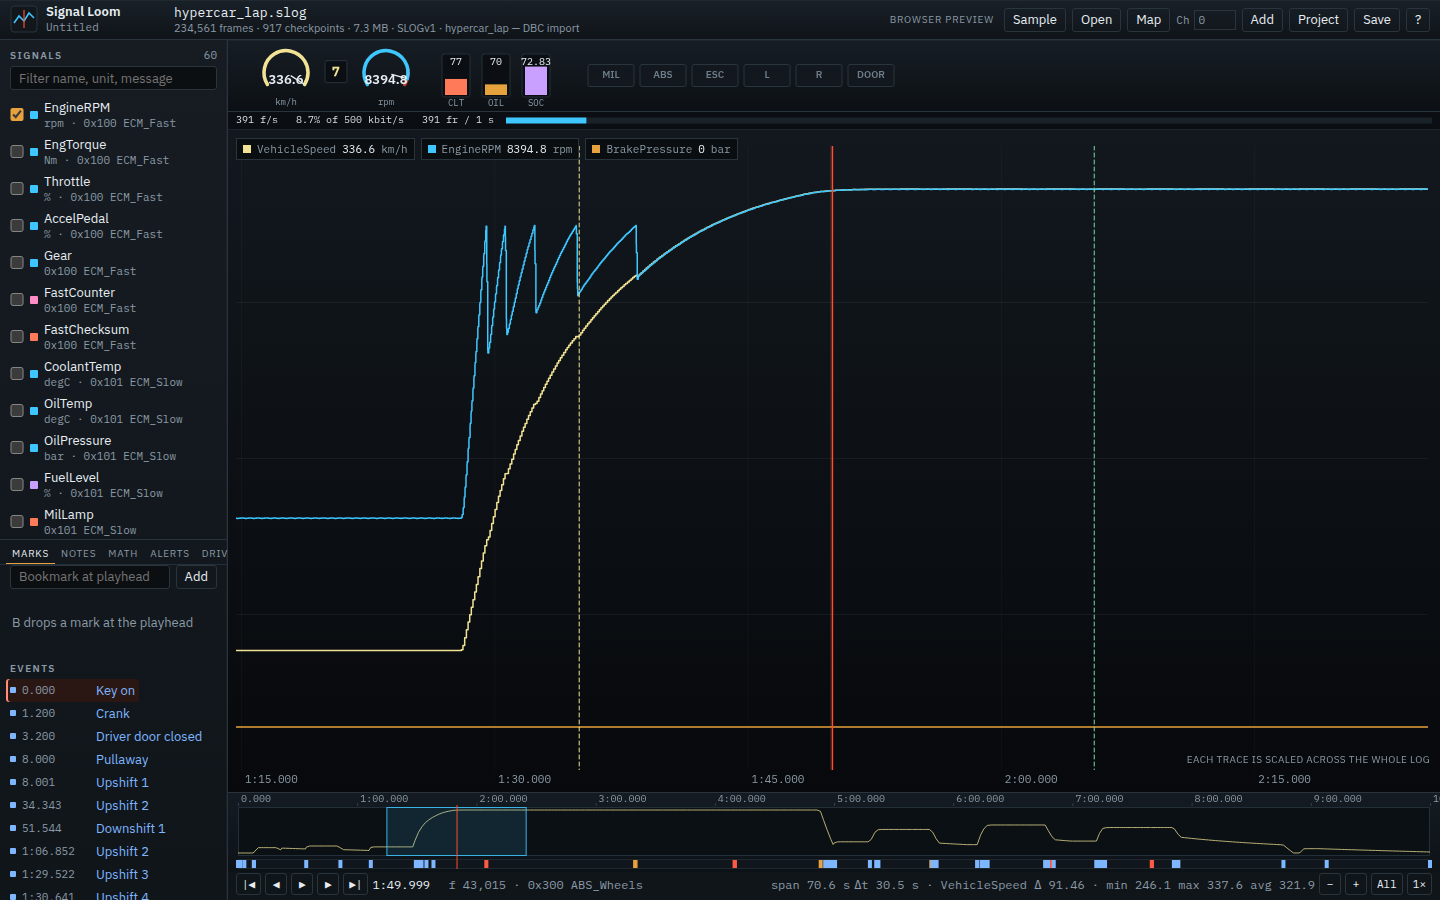
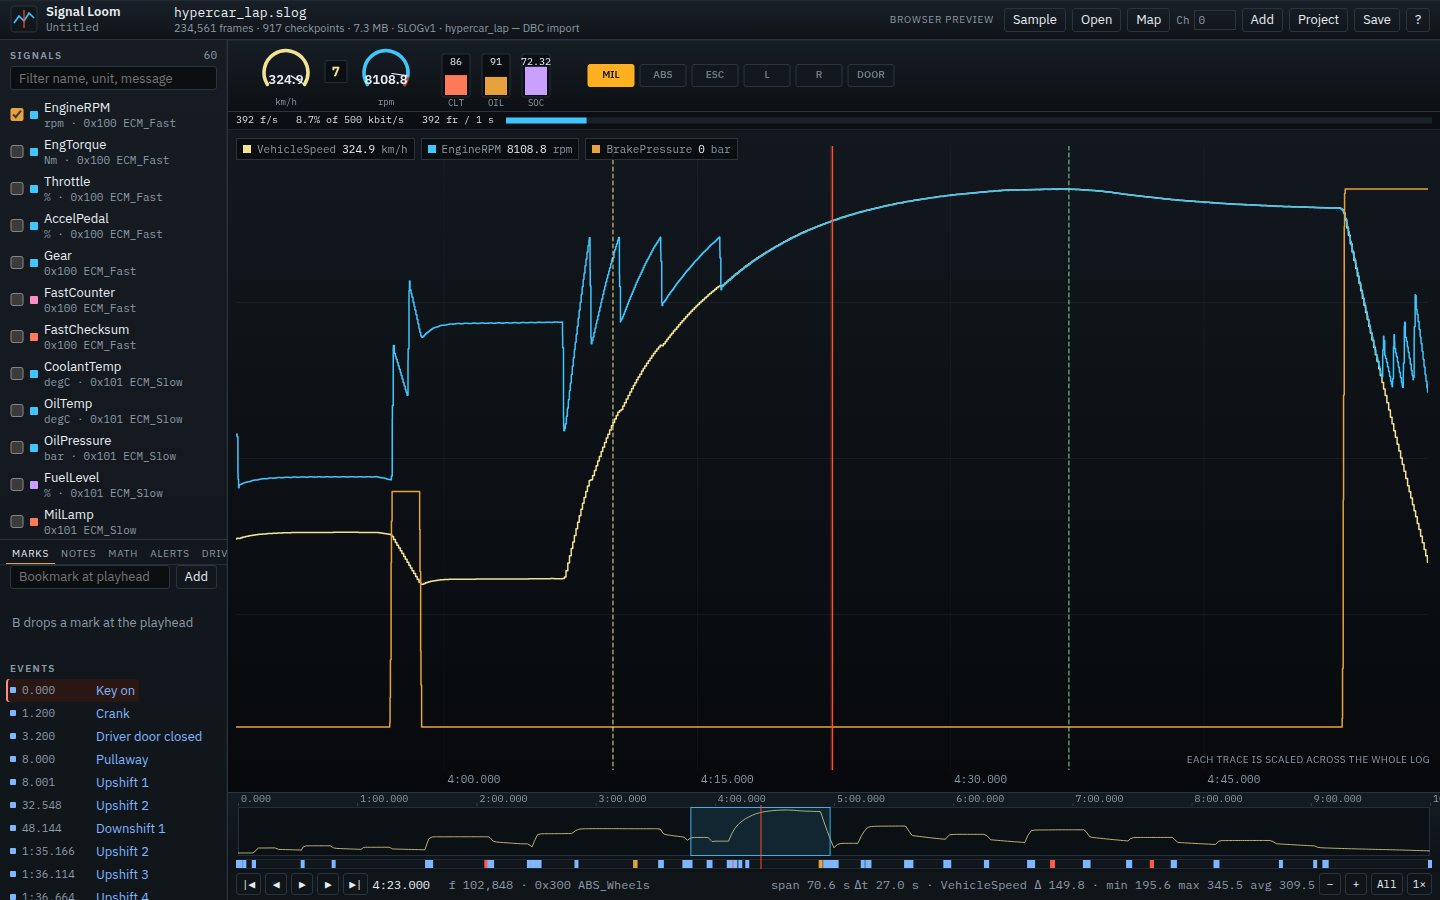
Keep the deck gauges live and shorten the top-speed straight.
The cluster was blank in the 4:58 screenshot because the shot landed before valuesAt filled the gauges, not because signal names changed. The lap test now requires those bindings to decode mid-drive. The straight holds top speed for about twenty seconds under the limiter, then brakes, and the brake hold is one pressure.

diff --git a/scripts/hypercar_bus.py b/scripts/hypercar_bus.py
@@ -7,11 +7,13 @@ cluster, and BMS. Payloads use an XOR checksum in byte 7 and a nibble
 or byte counter. Cycle times are 10, 20, 100, and 1000 ms, with jitter.
 
 Speed comes from a seeded longitudinal model (torque curve, gear ratio,
-aero drag, rolling resistance, mass). RPM follows road speed through the
-gear, with a torque cut on upshifts and a blip on downshifts. Brake
-pressure is zero except during scheduled applies: a 100–200 ms rise, a
-hold, and a release. The lap is urban, a top-speed straight, then corners
-and a pit.
+aero drag, rolling resistance, mass). A slow grade and a headwind move
+the aero balance so a flat-out straight is not a dead line. RPM follows
+road speed through the gear, with a torque cut on upshifts and a blip on
+downshifts. Brake pressure is zero except during scheduled applies: a
+100–200 ms rise, a constant hold, and a release. The lap is urban, several
+corners, a chicane, one short top-speed straight, a second shorter
+straight, and a pit.
 """
 
 from __future__ import annotations
@@ -25,9 +27,11 @@ FIXTURES = ROOT / "fixtures"
 DURATION_S = 600.0
 DT_S = 0.001
 
-# Overall ratio, engine rpm / wheel rpm. 7th is the top-speed gear:
-# drag and the torque curve meet near 330 km/h and about 8,400 rpm.
+# Overall ratio, engine rpm / wheel rpm. 7th is the top-speed gear.
+# Full-throttle drag and the torque curve meet under the rev limiter.
 GEARS = [0.0, 12.8, 8.6, 6.3, 4.9, 4.05, 3.5, 3.15]
+# Torque starts to fall here. The straight is geared to stay below it.
+REV_LIMIT = 9050.0
 WHEEL_RADIUS = 0.335
 WHEELBASE = 2.70
 TRACK = 1.64
@@ -70,34 +74,56 @@ CHECKSUM_FAULT_S = 460.0
 
 # (t1, desired km/h, throttle cap, peak lateral g). Lateral g is a sine
 # bump across the leg so a corner builds and releases. Straights are 0 g.
+# The 420 km/h leg is a throttle demand, not a speed the car can reach.
+# Aero drag sets the top speed, and only for the last part of that leg.
 _LEG_ROWS = [
     (8.0, 0.0, 0.0, 0.0),
-    (22.0, 42.0, 0.45, 0.0),
-    (34.0, 16.0, 0.25, 0.42),
-    (52.0, 55.0, 0.50, 0.0),
-    (66.0, 18.0, 0.22, -0.55),
-    (88.0, 48.0, 0.40, 0.12),
-    (292.0, 360.0, 1.0, 0.0),
-    (318.0, 88.0, 0.35, 0.85),
-    (348.0, 185.0, 0.90, 0.35),
-    (372.0, 64.0, 0.28, -1.10),
-    (408.0, 220.0, 1.0, 0.0),
-    (432.0, 92.0, 0.32, 0.80),
-    (470.0, 200.0, 0.92, -0.22),
-    (496.0, 68.0, 0.30, -0.90),
-    (544.0, 34.0, 0.32, 0.15),
-    (574.0, 8.0, 0.16, 0.0),
+    (20.0, 40.0, 0.42, 0.0),
+    (32.0, 16.0, 0.22, 0.48),
+    (48.0, 58.0, 0.48, 0.0),
+    (62.0, 20.0, 0.22, -0.58),
+    (78.0, 46.0, 0.38, 0.22),
+    (94.0, 24.0, 0.20, -0.42),
+    (128.0, 130.0, 0.72, 0.0),
+    (148.0, 72.0, 0.32, 0.82),
+    (168.0, 155.0, 0.78, -0.28),
+    (212.0, 195.0, 0.62, 0.12),
+    (224.0, 110.0, 0.35, 0.95),
+    (236.0, 125.0, 0.45, -1.05),
+    (247.0, 95.0, 0.32, 0.72),
+    (293.0, 420.0, 1.0, 0.0),
+    (312.0, 78.0, 0.30, 0.88),
+    (338.0, 215.0, 0.78, 0.0),
+    (356.0, 64.0, 0.28, -1.05),
+    (378.0, 150.0, 0.70, 0.35),
+    (396.0, 58.0, 0.26, -0.78),
+    (428.0, 185.0, 0.82, -0.18),
+    (448.0, 70.0, 0.30, 0.92),
+    (472.0, 125.0, 0.55, 0.0),
+    (492.0, 48.0, 0.24, -0.62),
+    (522.0, 100.0, 0.50, 0.40),
+    (544.0, 32.0, 0.28, 0.12),
+    (572.0, 8.0, 0.15, 0.0),
     (600.0, 0.0, 0.0, 0.0),
 ]
-# Explicit applies only. Rise is 100–200 ms. Zero everywhere else.
+# Explicit applies only. Rise and release are 100–200 ms. The hold is one
+# pressure, then the trace returns to exactly zero.
 _BRAKE_ROWS = [
-    (19.4, 0.14, 1.8, 0.18, 14.0),
-    (50.2, 0.15, 2.4, 0.20, 18.0),
-    (293.2, 0.16, 6.0, 0.22, 64.0),
-    (349.0, 0.14, 3.4, 0.18, 46.0),
-    (406.2, 0.15, 4.2, 0.20, 40.0),
-    (471.0, 0.13, 3.0, 0.18, 34.0),
-    (526.0, 0.16, 8.0, 0.28, 20.0),
+    (18.6, 0.14, 1.4, 0.16, 12.0),
+    (46.4, 0.15, 1.8, 0.18, 16.0),
+    (76.2, 0.12, 1.5, 0.16, 14.0),
+    (126.4, 0.16, 2.2, 0.18, 26.0),
+    (146.2, 0.14, 1.6, 0.16, 22.0),
+    (212.4, 0.15, 1.8, 0.18, 32.0),
+    (224.6, 0.13, 1.4, 0.16, 24.0),
+    (236.8, 0.14, 1.6, 0.16, 28.0),
+    (293.2, 0.16, 6.4, 0.20, 64.0),
+    (336.2, 0.15, 2.6, 0.18, 40.0),
+    (376.4, 0.14, 2.0, 0.16, 30.0),
+    (426.2, 0.15, 2.4, 0.18, 34.0),
+    (470.4, 0.13, 2.2, 0.18, 26.0),
+    (520.2, 0.16, 2.0, 0.18, 18.0),
+    (542.0, 0.14, 1.6, 0.16, 12.0),
 ]
 
 
@@ -143,23 +169,42 @@ def lat_target(t_s: float, leg: tuple[float, float, float, float, float]) -> flo
     return peak * math.sin(math.pi * phase)
 
 
+def _straight_gust(t_s: float, rise_s: float) -> float:
+    """1 on the top-speed straight, then back to 0 after the braking zone."""
+    if t_s <= 276.0 or t_s >= 306.0:
+        return 0.0
+    level = smoothstep(min((t_s - 276.0) / rise_s, 1.0))
+    if t_s > 294.0:
+        level *= 1.0 - smoothstep(min((t_s - 294.0) / 10.0, 1.0))
+    return level
+
+
+def road_slope(t_s: float) -> float:
+    """Uphill is positive. The top-speed straight runs onto a hill."""
+    grade = 0.003 * math.sin(2.0 * math.pi * (t_s - 30.0) / 80.0)
+    grade += 0.042 * _straight_gust(t_s, 4.0)
+    return grade
+
+
+def headwind_mps(t_s: float) -> float:
+    """Positive is a headwind. A gust arrives once the straight is at speed."""
+    wind = 0.7 * math.sin(2.0 * math.pi * (t_s - 80.0) / 50.0)
+    wind += 4.2 * _straight_gust(t_s, 5.0)
+    return wind
+
+
 def brake_pressure_bar(t_s: float) -> float:
-    """Smooth apply, or exactly zero. Noise stays under a bar on the hold."""
+    """One smooth apply, a constant hold, a smooth release, or exactly zero."""
     for t0, rise, hold, fall, peak in _BRAKE_ROWS:
         end = t0 + rise + hold + fall
         if t_s < t0 or t_s >= end:
             continue
         u = t_s - t0
         if u < rise:
-            shape = smoothstep(u / rise)
-        elif u < rise + hold:
-            shape = 1.0 - 0.035 * ((u - rise) / hold)
-        else:
-            shape = (1.0 - smoothstep((u - rise - hold) / fall)) * 0.965
-        bar = peak * shape
-        if bar > 2.0:
-            bar += 0.30 * math.sin(t_s * 31.0 + t0)
-        return max(0.0, bar)
+            return peak * smoothstep(u / rise)
+        if u < rise + hold:
+            return peak
+        return peak * (1.0 - smoothstep((u - rise - hold) / fall))
     return 0.0
 
 
@@ -366,17 +411,19 @@ class Bus:
         else:
             rpm = self.rpm if self.rpm > 400 else 900.0
             limit = 1.0
-            if rpm > 8350:
-                limit = clamp(1.0 - (rpm - 8350) / 450.0, 0.15, 1.0)
+            if rpm > REV_LIMIT:
+                limit = clamp(1.0 - (rpm - REV_LIMIT) / 350.0, 0.05, 1.0)
             eng = engine_torque_nm(rpm) * self.throttle * self.torque_scale * limit
             mot = motor_nm(speed_kmh) * self.throttle * self.torque_scale if self.soc > 12 else 0.0
             drive = min(MU * MASS * G, (eng + mot) * GEARS[self.gear] * DRIVE_EFF / WHEEL_RADIUS)
         self.torque = eng + mot
-        drag = CDA * self.speed_mps * self.speed_mps
+        air = self.speed_mps + (headwind_mps(self.t_s) if self.speed_mps > 1.0 else 0.0)
+        drag = CDA * air * abs(air)
         roll = CRR * MASS * G if self.speed_mps > 0.15 else 0.0
+        grade = MASS * G * road_slope(self.t_s) if self.t_s >= 8.0 and self.gear > 0 else 0.0
         # 80 bar is a hard stop, a bit over 1 g before aero.
         brake_force = (self.brake_bar / 80.0) * 18500.0
-        net = drive - drag - roll - brake_force
+        net = drive - drag - roll - grade - brake_force
         self.speed_mps = max(0.0, self.speed_mps + (net / MASS) * DT_S)
 
     def _rpm_target(self) -> float:
@@ -441,11 +488,11 @@ class Bus:
 
     def turn_left(self) -> bool:
         t = self.t_s
-        return 18 <= t < 27 or 398 <= t < 418 or 500 <= t < 514
+        return 18 <= t < 30 or 210 <= t < 224 or 300 <= t < 314
 
     def turn_right(self) -> bool:
         t = self.t_s
-        return 62 <= t < 80 or 428 <= t < 450
+        return 46 <= t < 64 or 224 <= t < 238 or 336 <= t < 356
 
     def wheel_kmh(self, index: int) -> float:
         """FL, FR, RL, RR. Outside wheels run faster in a corner."""
@@ -725,7 +772,7 @@ def generate() -> tuple[int, int]:
     header = [
         "SLOGv1",
         "# SYNTHETIC. Not a vehicle capture. Generated by scripts/hypercar_bus.py.",
-        "# Hybrid hypercar. Torque, gears, drag, and mass. Urban, a top-speed straight, corners, pit.",
+        "# Hybrid hypercar. Torque, gears, drag, grade, and wind. Urban, corners, a short top-speed straight, pit.",
         "# XOR checksum in byte 7. Counters live in the DBC. Pair with hypercar_lap.dbc.",
         "# Planted: DTC P0301, TCU counter skip, ECM_Fast gap, bus-off error frames, ABS bad checksum.",
     ]

diff --git a/crates/loom-core/src/tests.rs b/crates/loom-core/src/tests.rs
@@ -457,7 +457,7 @@ fn hypercar_lap_decodes_like_a_drive() {
     let lap = std::fs::read(root.join("hypercar_lap.slog")).expect("synthetic lap");
     assert_eq!(
         lap.len(),
-        7_698_847,
+        7_699_372,
         "regenerate with scripts/gen_fixture.py"
     );
     let digest = Sha256::digest(&lap);
@@ -467,7 +467,7 @@ fn hypercar_lap_decodes_like_a_drive() {
         .collect::<String>();
     assert_eq!(
         sha,
[2 lines of base64/hex data omitted]
     );
     let mut session = Session::new();
     session
@@ -525,6 +525,60 @@ fn hypercar_lap_decodes_like_a_drive() {
     assert!(at(500_000_000, "CoolantTemp") > at(5_000_000, "CoolantTemp") + 20.0);
     assert!(at(299_000_000, "AbsActive") > 0.5);
     assert!(at(560_000_000, "DoorFL") > 0.5);
+}
+
+#[test]
+fn deck_bound_signals_are_live_mid_drive() {
+    // Names `readingsFrom` in src/gauges.ts looks up. A rename in the
+    // generator or DBC leaves the cluster drawing blanks.
+    let names = [
+        "VehicleSpeed",
+        "EngineRPM",
+        "DisplayedRPM",
+        "CoolantTemp",
+        "OilTemp",
+        "Soc",
+        "FuelLevel",
+        "Gear",
+        "GearActual",
+        "MilLamp",
+        "TelltaleMil",
+        "AbsActive",
+        "TelltaleAbs",
+        "TurnLeft",
+        "TelltaleLeft",
+        "TurnRight",
+        "TelltaleRight",
+        "DoorFL",
+        "EscActive",
+    ];
+    let root = PathBuf::from(env!("CARGO_MANIFEST_DIR")).join("../../fixtures");
+    let mut session = Session::new();
+    session
+        .open_path(&root.join("hypercar_lap.slog"))
+        .expect("synthetic lap");
+    let summary = session.summary().unwrap();
+    let have: std::collections::HashSet<&str> = summary
+        .signals
+        .iter()
+        .map(|signal| signal.name.as_str())
+        .collect();
+    for name in names {
+        assert!(have.contains(name), "lap is missing {name}");
+    }
+    // 4:58, the deck playhead: braking off the straight, MIL already set.
+    let held = session.values_at(298_000_000).unwrap();
+    for name in names {
+        let value = held.iter().find(|item| item.name == name);
+        assert!(
+            value.is_some_and(|item| item.value.is_finite()),
+            "{name} did not decode at 4:58"
+        );
+    }
+    let mil = held.iter().find(|item| item.name == "MilLamp").unwrap();
+    assert!(mil.value > 0.5, "MIL should be lit mid-drive");
+    let abs = held.iter().find(|item| item.name == "AbsActive").unwrap();
+    assert!(abs.value > 0.5, "ABS should be lit on the straight's brake");
 }
 
 #[test]

diff --git a/README.md b/README.md
@@ -8,7 +8,7 @@ The heavy work stays in Rust. The window is a Tauri 2 shell. The UI is TypeScrip
 
 Desktop layout at 1440×900, after indexing finished. The first four pictures use the synthetic hypercar lap, `fixtures/hypercar_lap.slog` with `fixtures/hypercar_lap.dbc`. That recording is generated, not a capture from a vehicle. The last picture is a slice of the same lap with bad lines mixed in.
 
-![Full window of the synthetic lap at 4:58, braking off the top-speed straight. Speed is about 123 km/h, engine speed near 6200 rpm, brake pressure near 62 bar, and the MIL and ABS lamps are lit.](docs/screenshots/deck-mid-drive.png)
+![Full window of the synthetic lap at 4:58, braking off the top-speed straight. Speed is 116.7 km/h in 3rd, engine speed is 5938 rpm, brake pressure is 64 bar, and the MIL and ABS lamps are lit.](docs/screenshots/deck-mid-drive.png)
 
 The instrument deck mid-drive. Gauges and telltales follow the playhead, and the timeline keeps the whole ten minutes.
 
@@ -16,7 +16,7 @@ The instrument deck mid-drive. Gauges and telltales follow the playhead, and the
 
 A planted fault selected. The row tracks the playhead, and the lane under the minimap is coloured by severity.
 
-![Measurement cursors on VehicleSpeed across the run up to top speed. The readout shows Δt 30.5 s, a delta of 91.46, min 246.1, max 337.6, and average 321.9.](docs/screenshots/cursors-stats.png)
+![Measurement cursors on VehicleSpeed across the run up to top speed. The readout shows Δt 27.0 s, a delta of 149.8, min 195.6, max 345.5, and average 309.5.](docs/screenshots/cursors-stats.png)
 
 Cursors A and B on the highway section. The transport shows Δt plus min, max, and average for the first plotted signal.
 
@@ -51,7 +51,7 @@ Vite stays on port 43127 and proxies `/api` to `loom-serve` on `127.0.0.1:43128`
 
 ## What's on the deck
 
-Sample opens `fixtures/hypercar_lap.slog` with `fixtures/hypercar_lap.dbc` when those files are on disk. That is a synthetic 10-minute hybrid drive (urban, a top-speed straight, corners, and a pit), not a capture from a vehicle. Speed is integrated from the torque curve, gear ratio, drag, rolling resistance, and mass. Message ids are invented. The log plants a DTC, a counter skip, a missing ECM cycle, a bus-off burst, and one bad ABS checksum. `fixtures/cluster_drive.slog` is a shorter cluster trace, with `fixtures/cluster.map.json`. `fixtures/demo.loom` points at that shorter trace. `fixtures/decoded_snippet.csv` is a tiny pre-decoded trace. The screenshots above use the 10-minute lap. The skipped-record picture is a slice of that lap with bad lines inserted.
+Sample opens `fixtures/hypercar_lap.slog` with `fixtures/hypercar_lap.dbc` when those files are on disk. That is a synthetic 10-minute hybrid drive (urban, several corners, a chicane, a short top-speed straight, a second shorter straight, and a pit), not a capture from a vehicle. Speed is integrated from the torque curve, gear ratio, drag, rolling resistance, mass, a slow grade, and wind. The top-speed straight is a few tens of seconds in top gear, under the rev limiter, and ends in a brake application. Message ids are invented. The log plants a DTC, a counter skip, a missing ECM cycle, a bus-off burst, and one bad ABS checksum. `fixtures/cluster_drive.slog` is a shorter cluster trace, with `fixtures/cluster.map.json`. `fixtures/demo.loom` points at that shorter trace. `fixtures/decoded_snippet.csv` is a tiny pre-decoded trace. The screenshots above use the 10-minute lap. The skipped-record picture is a slice of that lap with bad lines inserted.
 
 `fixtures/hypercar_lap.dbc` is committed. `fixtures/hypercar_lap.slog` is not: the app reads it from disk when it is present and otherwise falls back to the short cluster sample, and the Rust test that checks the lap only needs the generated file. Regenerate it locally, and CI writes it before `cargo test`:
 
